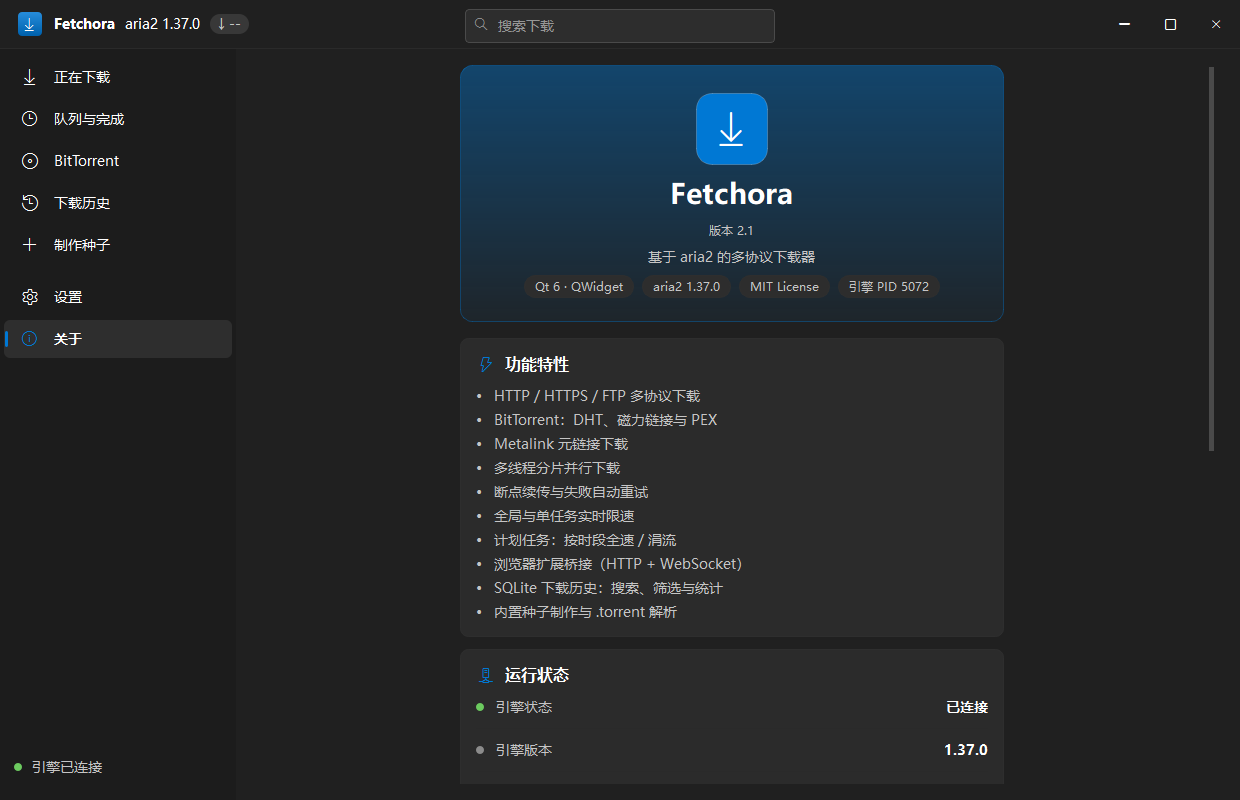
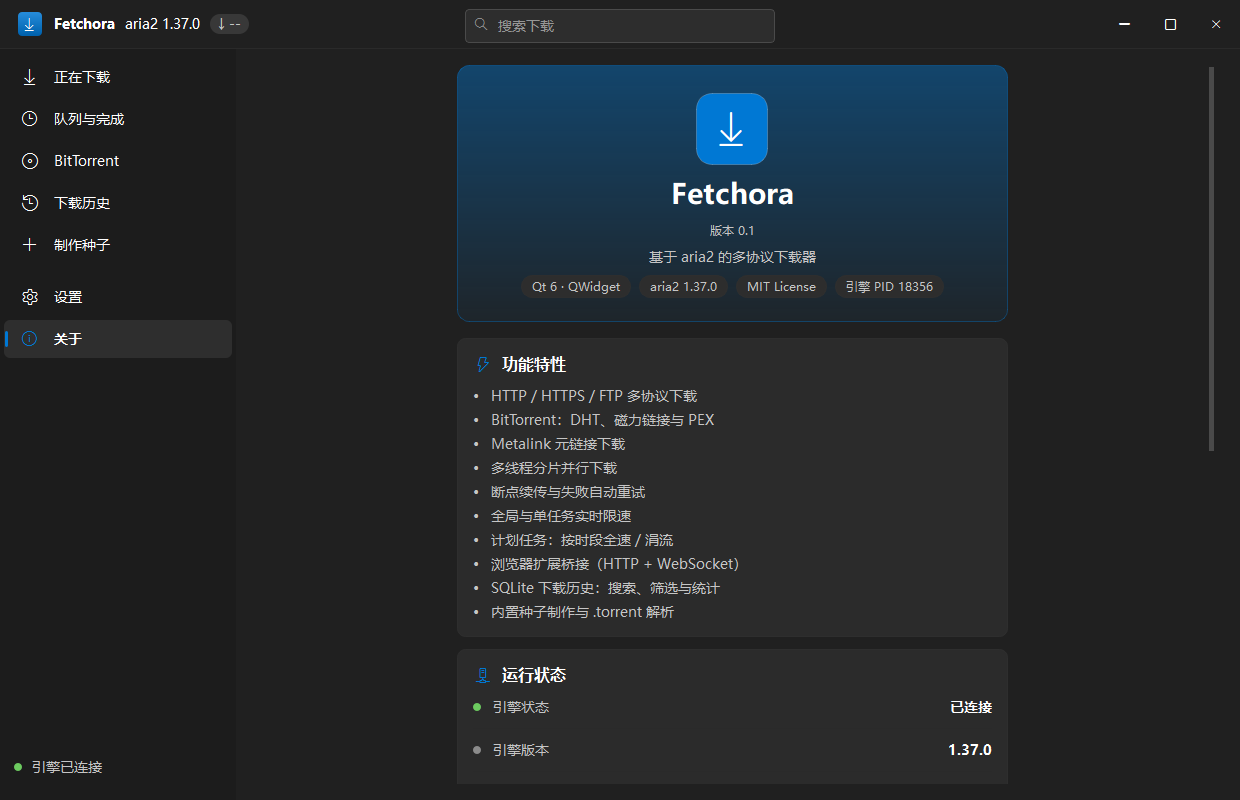
Version 0.1 - first public preview
The project is being published for the first time, so the version says so in one
place instead of three different ones: CMake project version, the version the
application reports (`Fetchora --version`), the version the browser bridge
advertises to the extension, and the extension's own manifest.

Also refreshes the About screenshot, which shows the version.

diff --git a/main.cpp b/main.cpp
@@ -285,7 +285,7 @@ int main(int argc, char *argv[])
     app.setApplicationName(QString::fromLatin1(kAppName));
     app.setApplicationDisplayName(QString::fromLatin1(kAppName));
     app.setOrganizationName(QString::fromLatin1(kAppName));
-    app.setApplicationVersion(QStringLiteral("2.1"));
+    app.setApplicationVersion(QStringLiteral("0.1"));
     app.setWindowIcon(makeAppIcon());
     // A download manager keeps running in the tray when its window closes.
     app.setQuitOnLastWindowClosed(false);

diff --git a/HttpServer.cpp b/HttpServer.cpp
@@ -13,7 +13,7 @@
 namespace {
 
 const char *kAppName = "Aria2 Downloader";
-const char *kAppVersion = "2.0";
+const char *kAppVersion = "0.1";
 
 /// RFC 6455 handshake GUID.
 const char *kWebSocketGuid = "258EAFA5-E914-47DA-95CA-C5AB0DC85B11";
